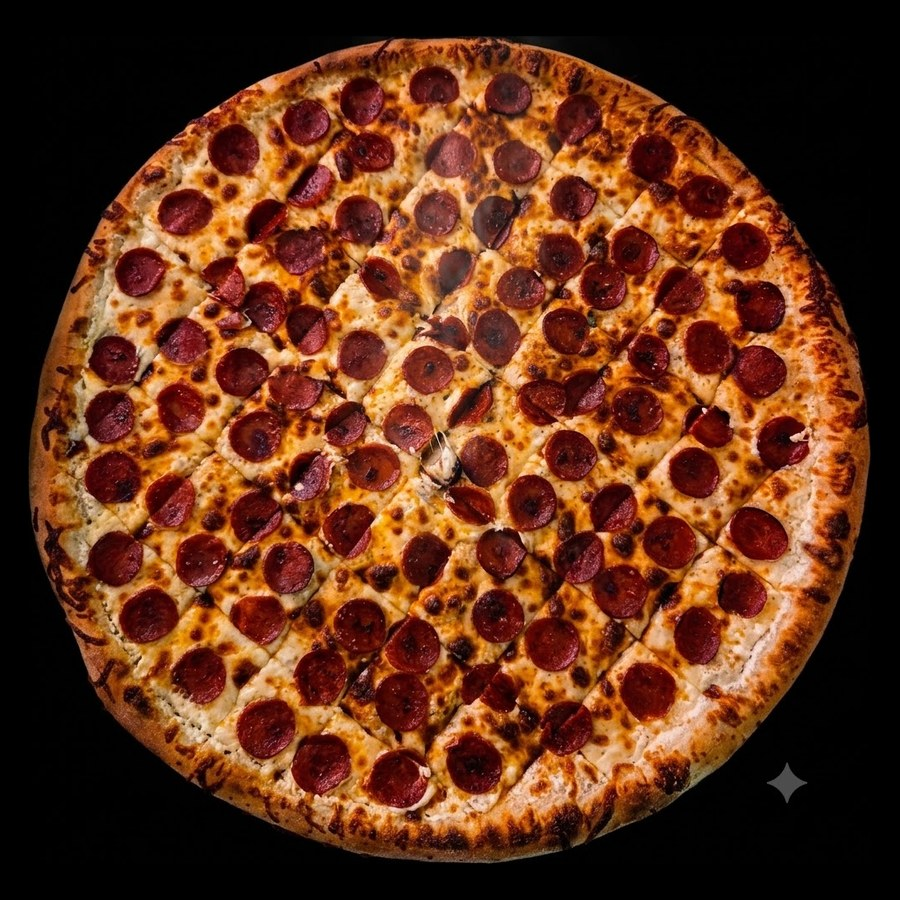
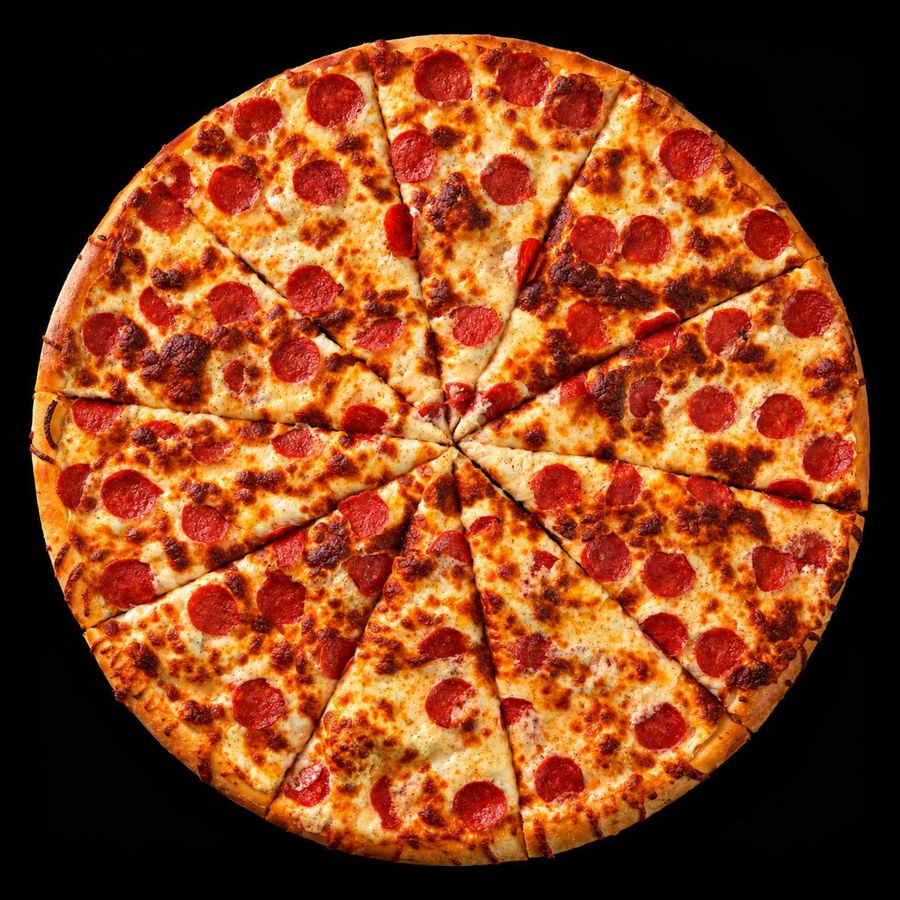
New 60cm photos for Avtorska, Kornichoza and Kremperoni

diff --git a/index.html b/index.html
@@ -356,10 +356,10 @@
         </article>
 
         <article class="card">
-          <div class="card-img"><img src="assets/img/family_kaprichoza.jpg" alt="Семейна пица Корничоза" loading="lazy"></div>
+          <div class="card-img"><img src="assets/img/p60_kornichoza.jpg" alt="Семейна пица Корничоза" loading="lazy"></div>
           <div class="card-body">
             <div class="card-top"><h3>Корничоза</h3><span class="price">24.00 €</span></div>
-            <button type="button" class="btn-cart" data-id="kornichoza-fam" data-addon-group="pizza60" data-name="Корничоза 60см" data-price="24.00" data-img="assets/img/family_kaprichoza.jpg">Добави в количката</button>
+            <button type="button" class="btn-cart" data-id="kornichoza-fam" data-addon-group="pizza60" data-name="Корничоза 60см" data-price="24.00" data-img="assets/img/p60_kornichoza.jpg">Добави в количката</button>
             <p class="weight">2800 гр</p>
             <p class="desc">Домашно тесто, италиански доматен сос, шунка, царевица, моцарела</p>
           </div>
@@ -416,10 +416,10 @@
         </article>
 
         <article class="card">
-          <div class="card-img"><img src="assets/img/placeholder_logo.jpg" alt="Семейна Авторска пица" loading="lazy"></div>
+          <div class="card-img"><img src="assets/img/p60_avtorska.jpg" alt="Семейна Авторска пица" loading="lazy"></div>
           <div class="card-body">
             <div class="card-top"><h3>Авторска</h3><span class="price">24.00 €</span></div>
-            <button type="button" class="btn-cart" data-id="avtorska-fam" data-addon-group="pizza60" data-name="Авторска 60см" data-price="24.00" data-img="assets/img/placeholder_logo.jpg">Добави в количката</button>
+            <button type="button" class="btn-cart" data-id="avtorska-fam" data-addon-group="pizza60" data-name="Авторска 60см" data-price="24.00" data-img="assets/img/p60_avtorska.jpg">Добави в количката</button>
             <p class="weight">2700 гр</p>
             <p class="desc">Домашно тесто, италиански доматен сос, бекон, лук, маслини, моцарела</p>
           </div>
